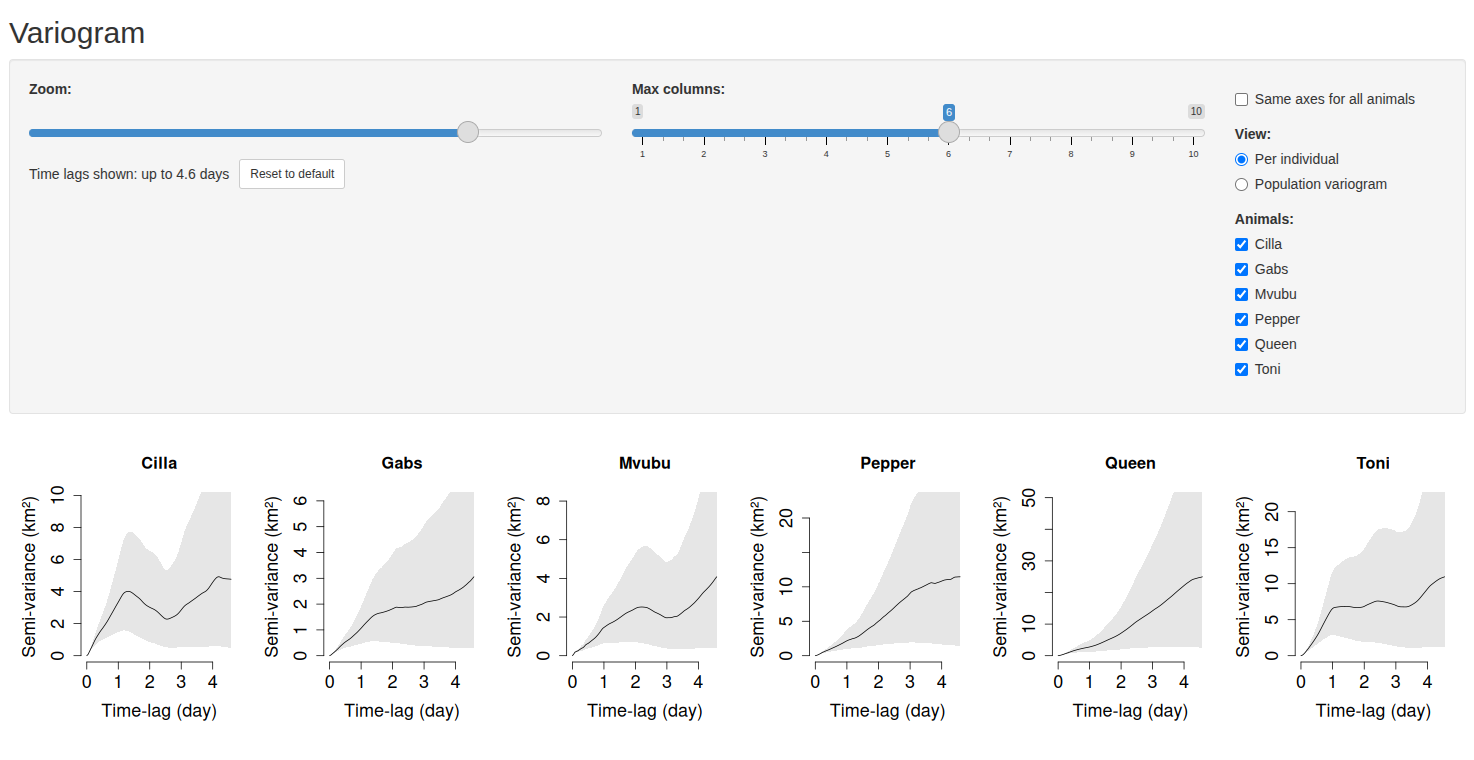
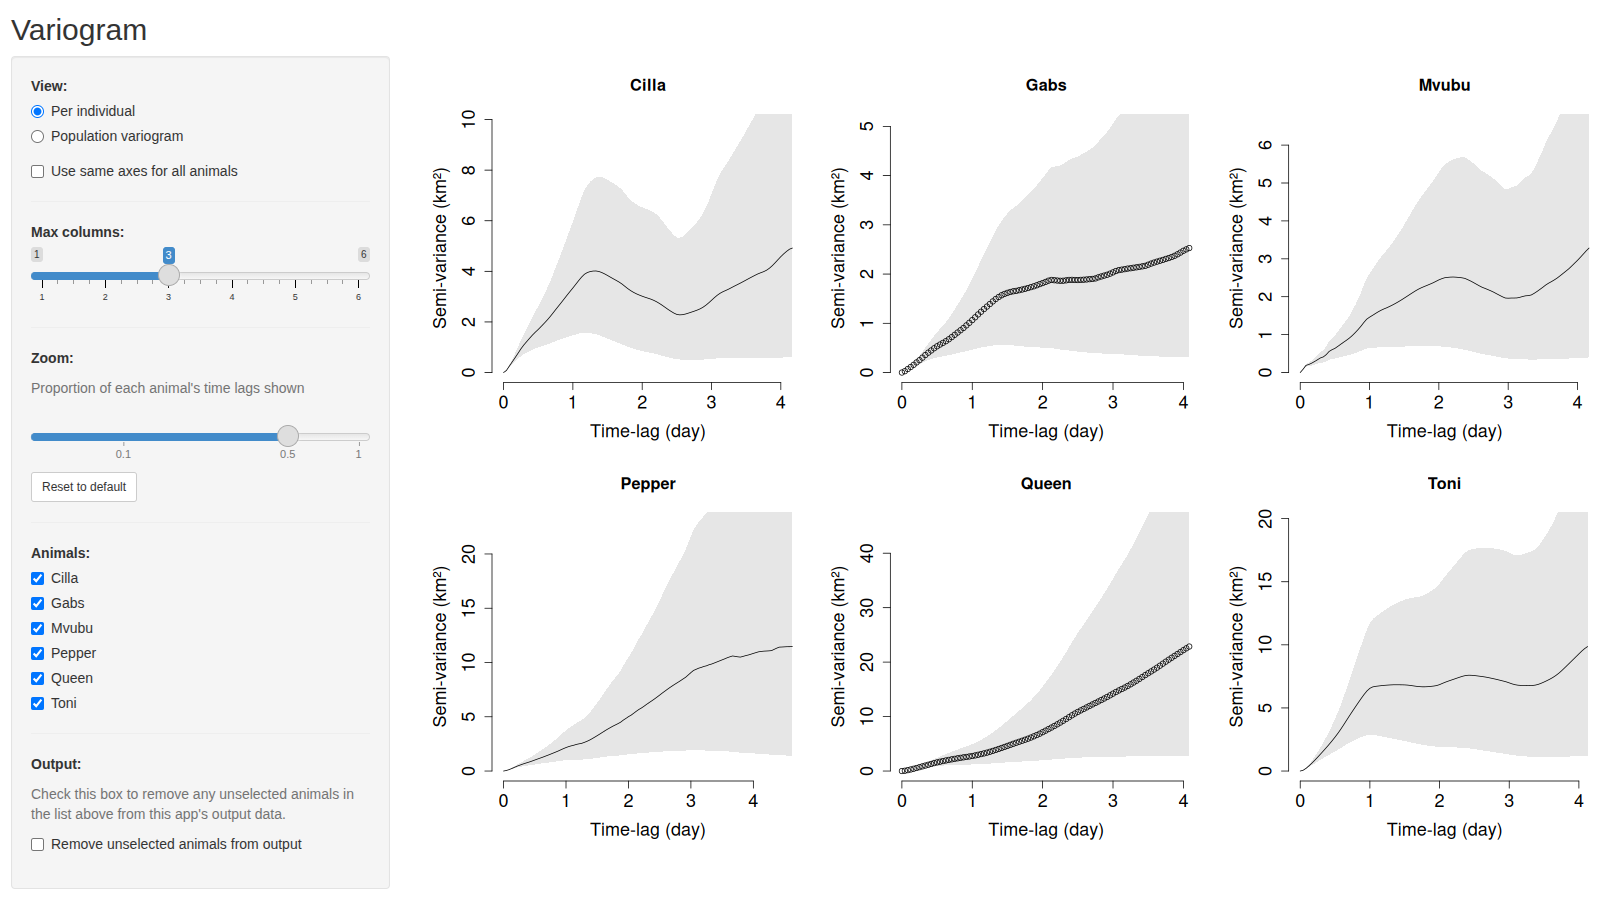
Update UI

diff --git a/README.md b/README.md
@@ -65,27 +65,28 @@ None
 shows a single variogram averaged over the selected animals. Defaults to
 "Per individual".
 
-**Zoom**: The range of time lags to show on the x-axis of the variogram
-plots. Moving the slider to the left shows shorter time lags and vice versa.
-The ticks under the slider give the proportion of each animal's time lags that
-is shown (e.g. 0.1 shows the first 10% of every animal's variogram).
-By default, the first half is shown, as longer lags can be highly noisy and of
-limited utility. The **Reset to default** button returns the zoom slider to
-this value.
-
-**Same axes for all animals**: If selected, all panels use the same x- and
+**Use same axes for all animals**: If selected, all panels use the same x- and
 y-axis. Only applies when **View** is set to "Per individual".
 
 **Max columns**: The maximum number of columns to use in the grid of plots. The
 grid uses fewer columns if fewer animals are selected, or if the window
 is too narrow for the panels to stay readable. Fewer columns give larger
-panels. Defaults to 3 columns.
+panels. Defaults to 3 columns. Only applies when **View** is set to
+"Per individual".
 
-**Animals**: The animals to include in the variogram plot grid. By default,
-all animals are shown.
+**Zoom**: The range of time lags to show on the x-axis of the variogram
+plots. Moving the slider to the left shows shorter time lags and vice versa.
+The ticks under the slider give the proportion of each variogram's time lags
+that is shown (e.g. 0.1 shows the first 10% of each animal's variogram).
+By default, the first half is shown, as longer lags can be highly noisy and of
+limited utility. The **Reset to default** button returns the zoom slider to
+this value.
+
+**Animals**: The animals to show in the grid of plots, or to average in the
+population variogram. By default, all animals are selected.
 
 **Remove unselected animals from output**: If this option is selected, only the
-animals that are checked will be included in the data passed to the next app.
+animals that are checked will be included in the data passed to the next App.
 You can use this option to drop animals that do not show range-resident
 behavior. By default, all animals are included in the output, even if their
 variogram is not displayed.
